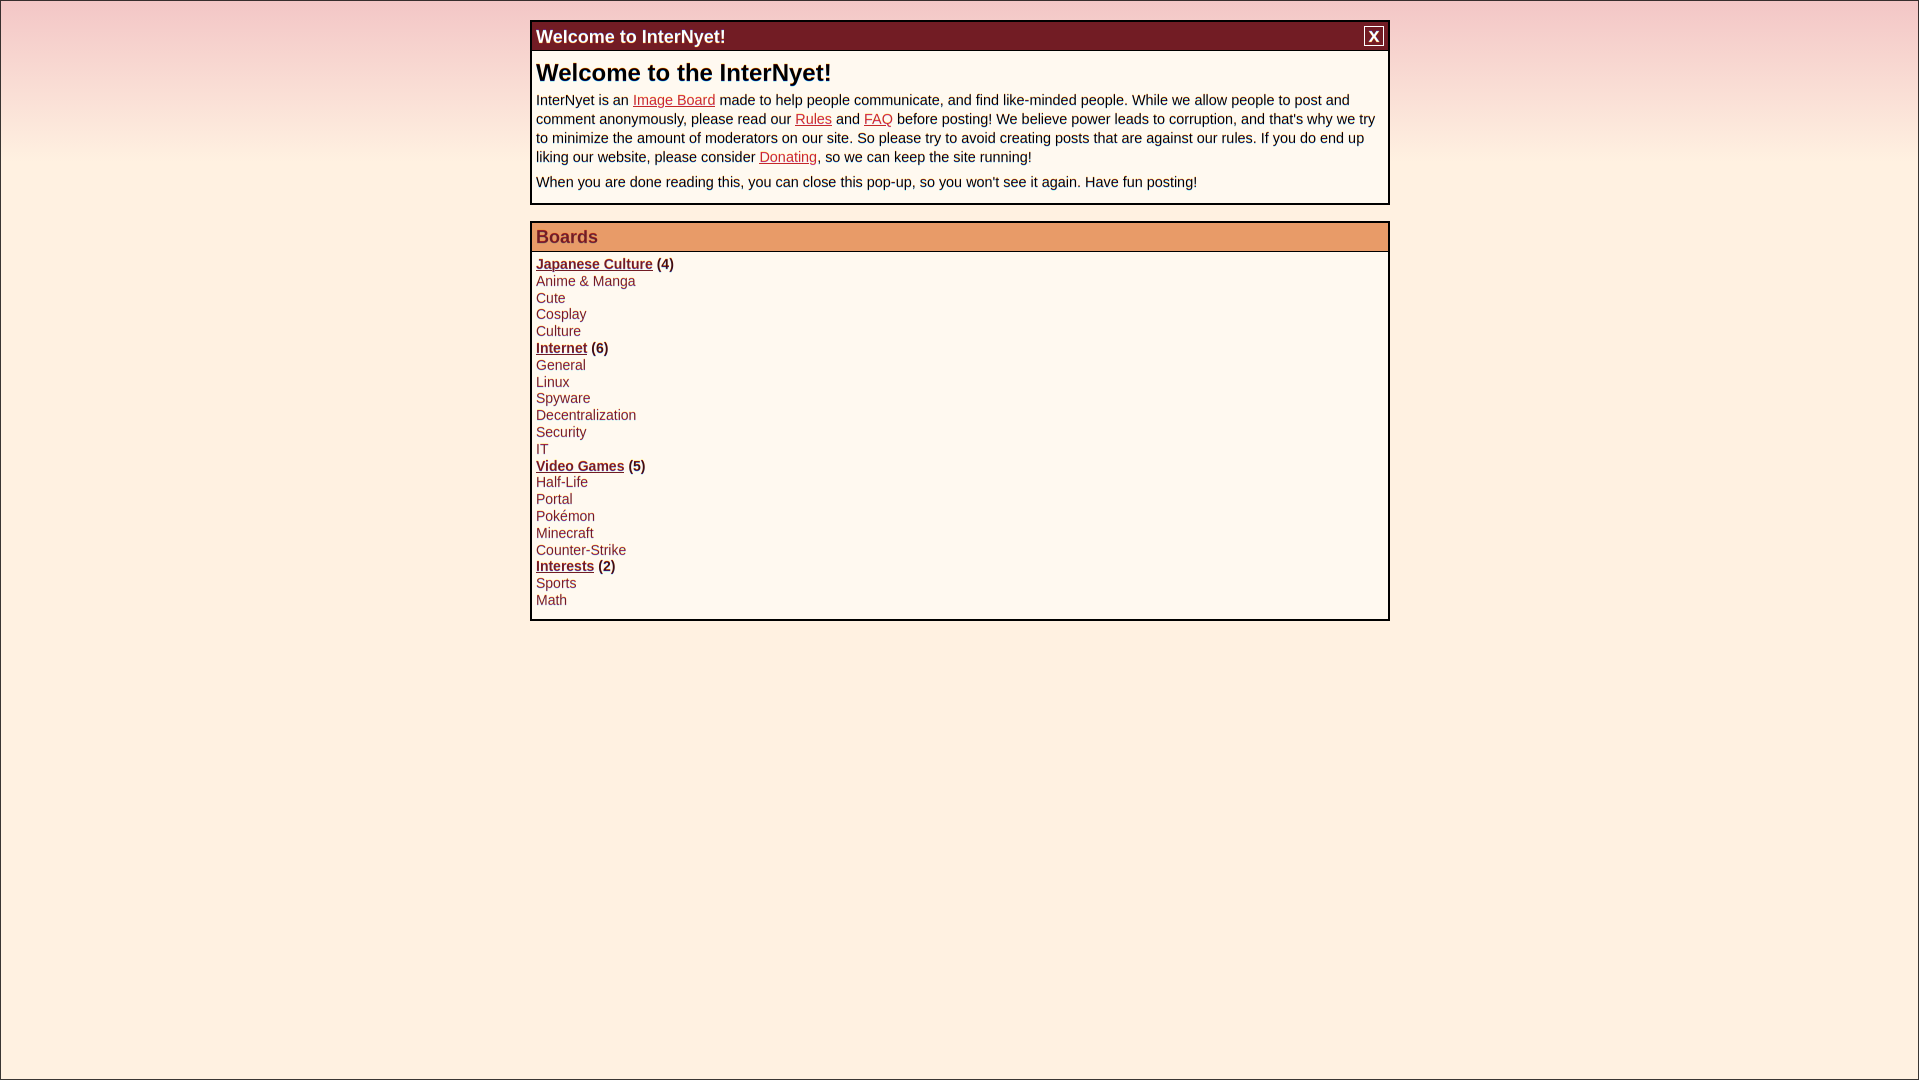
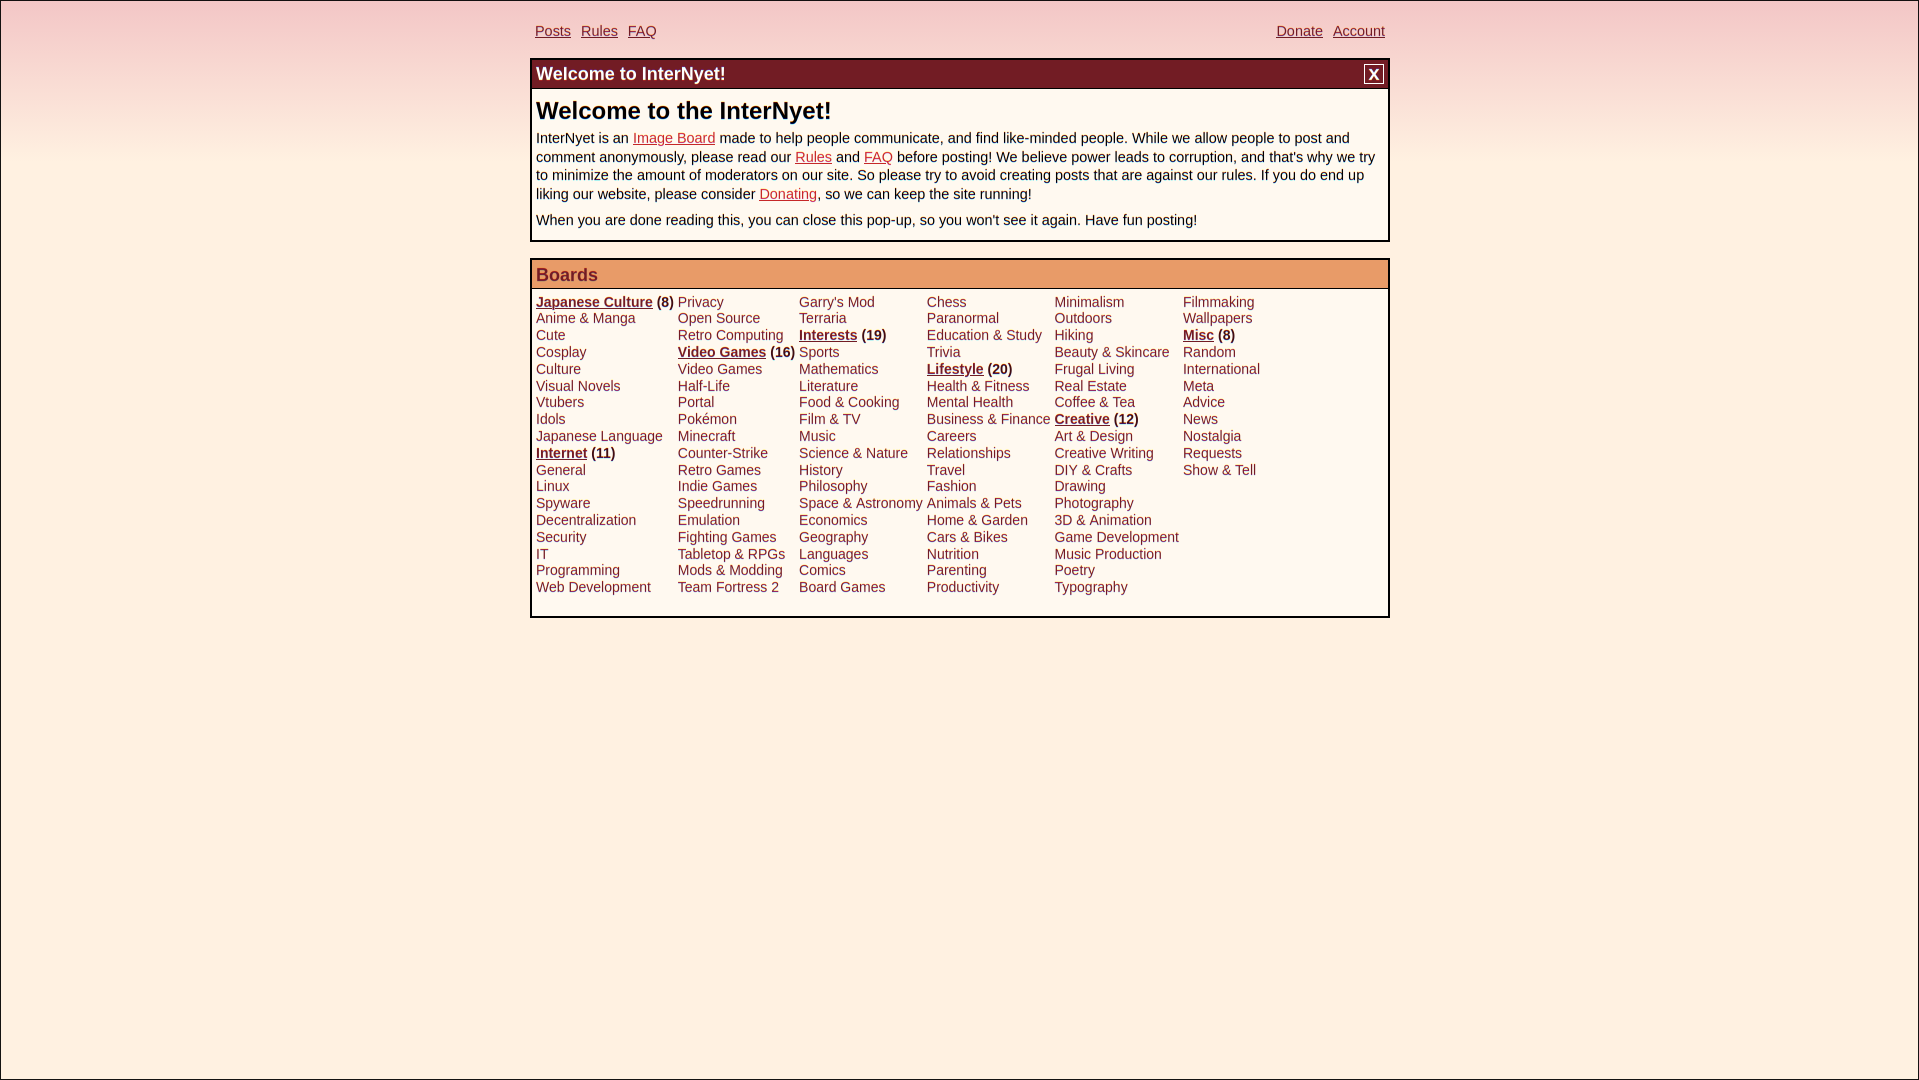
Created a database and an auth lib, updated readme preview

Changed region(s): [[0.2767, 0.0, 0.7379, 0.5806]]

diff --git a/app/lib/auth.ts b/app/lib/auth.ts
@@ -1,0 +1,48 @@
+import argon2, { HashOptions } from "argon2";
+import { getDatabase } from "@/app/lib/database";
+
+const options: HashOptions = {
+    type: argon2.argon2id,
+    memoryCost: 64000,
+    timeCost: 4,
+    parallelism: 2,
+};
+
+type AuthResponse = {
+    success: boolean;
+    message?: string;
+};
+
+export const db = getDatabase();
+
+async function hash(tohash: string) {
+
+    return argon2.hash(tohash, options);
+
+}
+
+async function addUser(user: string, password: string): Promise<AuthResponse> {
+
+    const username = user.toLowerCase();
+
+    const userCheck = db
+        .prepare("SELECT 1 FROM accounts WHERE user = ?")
+        .get(username);
+
+    if (userCheck) {
+
+        return { success: false, message: "Username already taken" };
+
+    }
+
+    const hashed = await hash(password);
+
+    db
+        .prepare(`INSERT INTO accounts (user, password) VALUES (?, ?)`)
+        .run(username, hashed);
+
+    return { success: true };
+
+}
+
+addUser("Polokalap", "meow").then(r => console.log(r));

diff --git a/app/lib/database.ts b/app/lib/database.ts
@@ -1,0 +1,34 @@
+import Database from "better-sqlite3";
+import path from "path";
+import fs from "fs";
+
+const dataDir = path.join(process.cwd(), "data");
+fs.mkdirSync(dataDir, { recursive: true });
+const globaldb = globalThis as unknown as { db: Database.Database };
+
+const db = globaldb.db ?? new Database(path.join(dataDir, "app.db"));
+if (process.env.NODE_ENV !== "production") globaldb.db = db;
+
+function init() {
+
+    db.pragma("journal_mode = WAL");
+    db.pragma("foreign_keys = ON");
+
+    db.exec(`
+        CREATE TABLE IF NOT EXISTS accounts (
+            id INTEGER PRIMARY KEY AUTOINCREMENT,
+            user TEXT NOT NULL,
+            password TEXT NOT NULL,
+            ceeated INTEGER NOT NULL DEFAULT (unixepoch())
+        );
+    `);
+
+}
+
+init();
+
+export function getDatabase(): Database.Database {
+
+    return db;
+
+}

diff --git a/app/components/navbar/NavBar.tsx b/app/components/navbar/NavBar.tsx
@@ -17,6 +17,7 @@ export default function NavBar() {
 
             <ul>
 
+                <Link href={"/account"}><li>Donate</li></Link>
                 <Link href={"/account"}><li>Account</li></Link>
 
             </ul>
